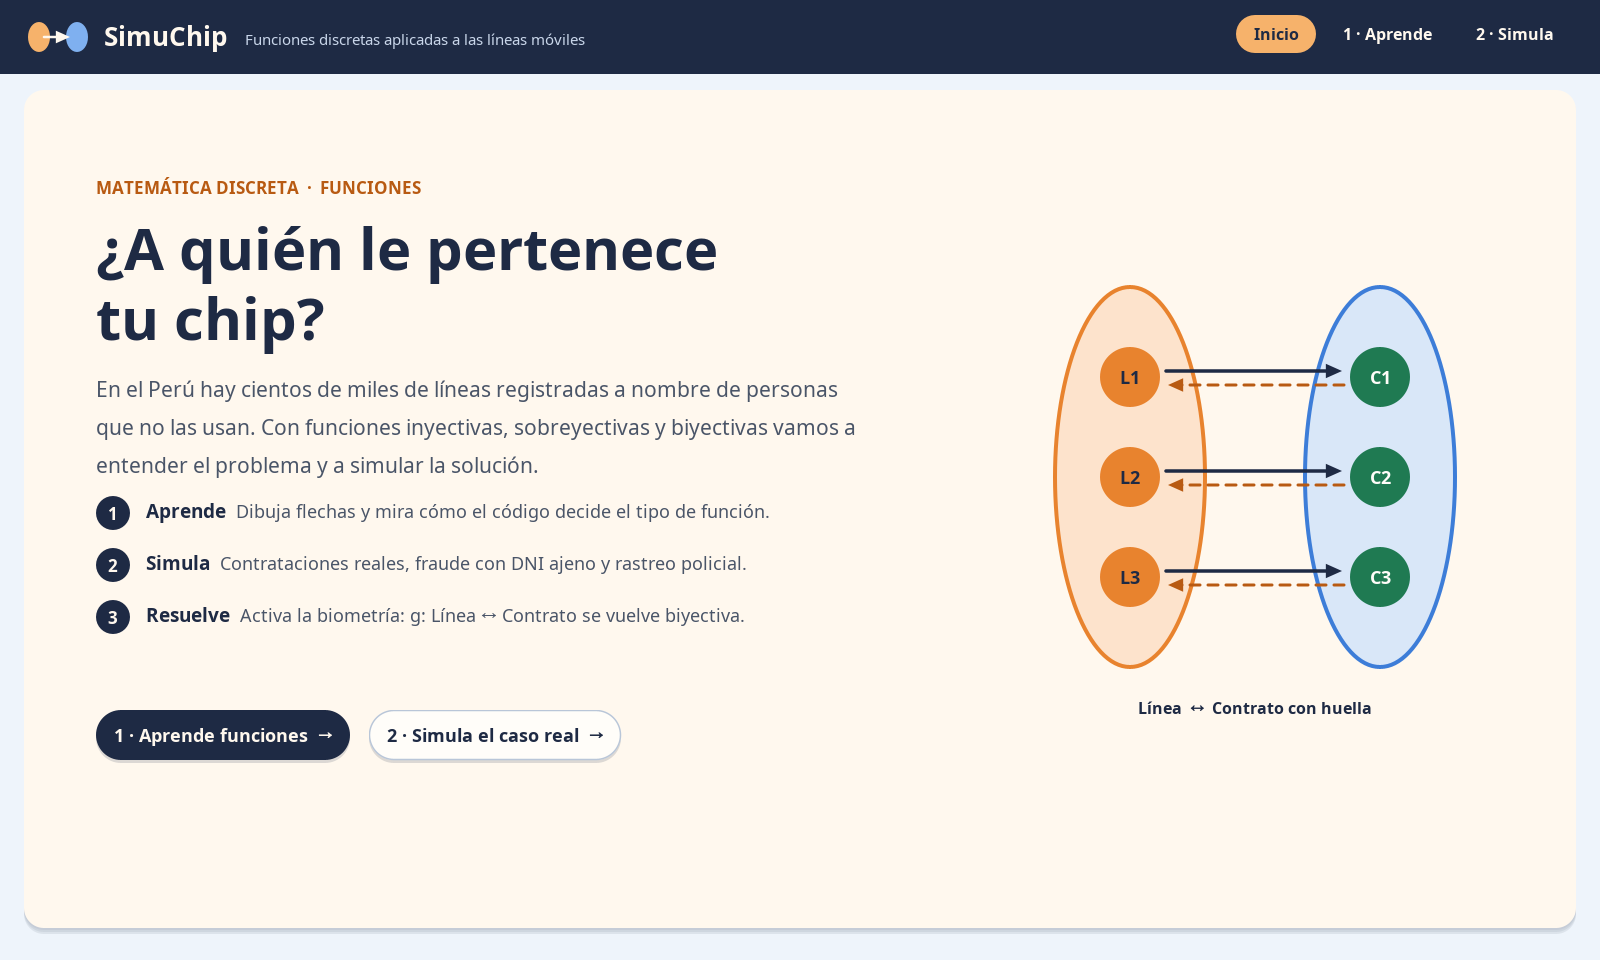
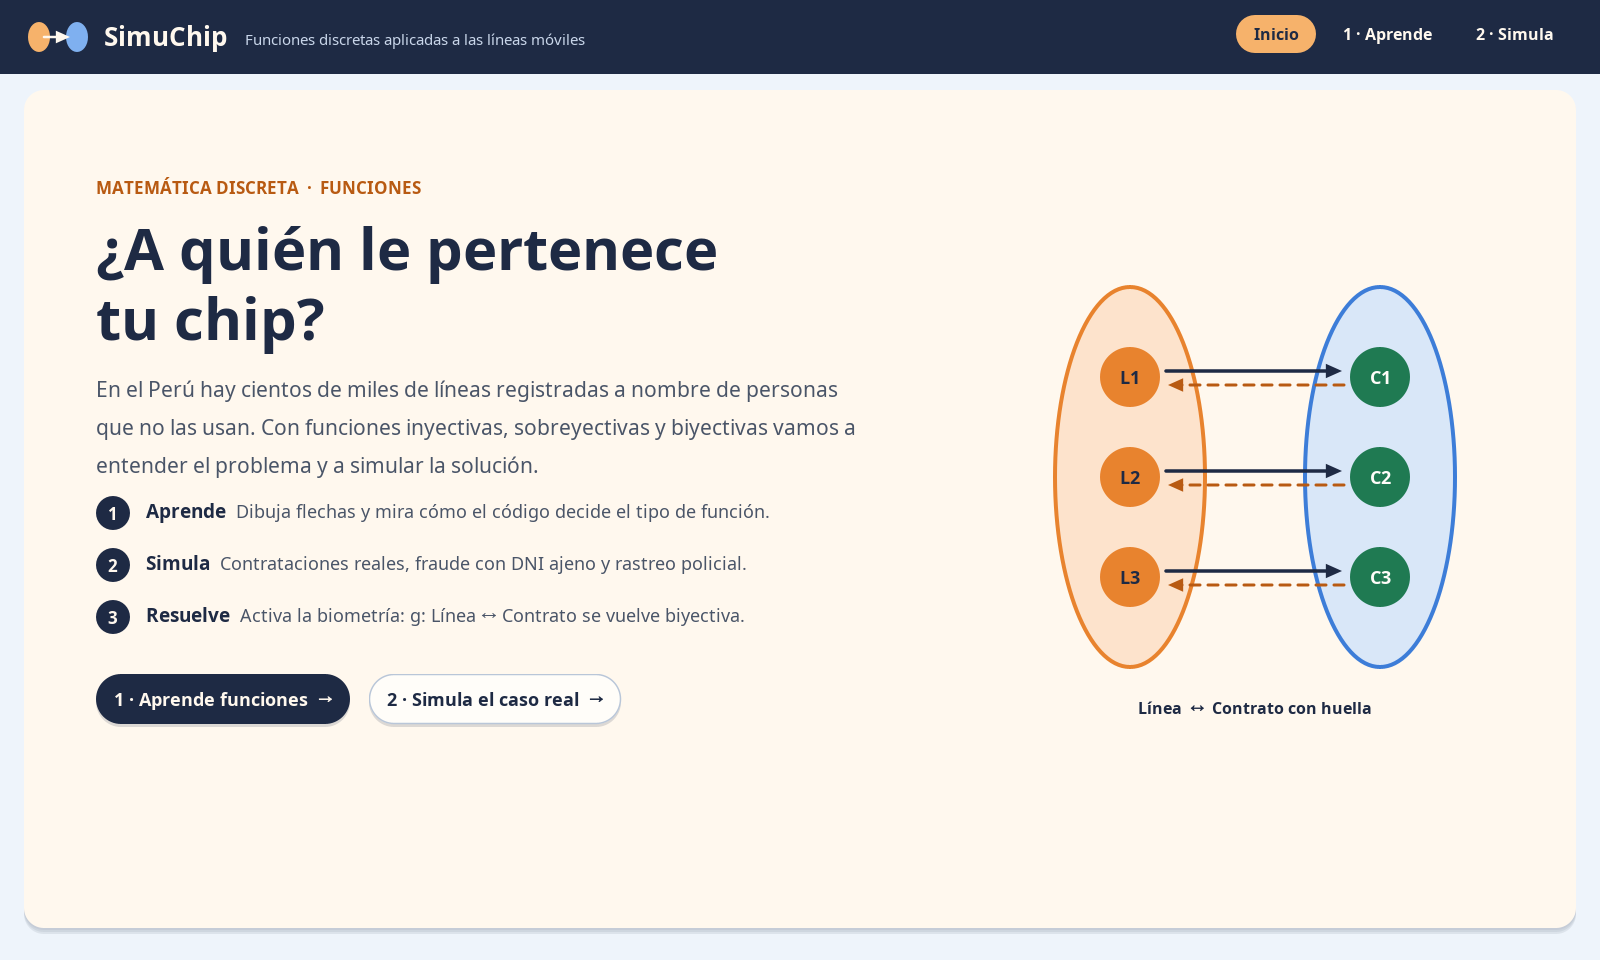
fix: escala automática en pantallas HiDPI de Linux y botones del inicio sin solapar

Changed region(s): [[0.0625, 0.6875, 0.375, 0.8125]]

diff --git a/src/simuchip/ui/PanelInicio.java b/src/simuchip/ui/PanelInicio.java
@@ -9,6 +9,10 @@ import javax.swing.JComponent;
 /** Pantalla de bienvenida: la pregunta, qué se puede hacer y botones para empezar. */
 public final class PanelInicio extends JComponent {
 
+    private static final String TEXTO = "En el Perú hay cientos de miles de líneas registradas a nombre de personas "
+            + "que no las usan. Con funciones inyectivas, sobreyectivas y biyectivas vamos a entender "
+            + "el problema y a simular la solución.";
+
     private final Animador animador;
     private final Boton aprender;
     private final Boton simular;
@@ -27,10 +31,17 @@ public final class PanelInicio extends JComponent {
         }
     }
 
+    /** Altura del párrafo de presentación (la misma cuenta que usa paintComponent). */
+    private int altoParrafo() {
+        java.awt.FontMetrics fm = getFontMetrics(Tema.letra(Font.PLAIN, 21f));
+        int lineas = Tema.partir(TEXTO, fm, Math.min(760, getWidth() / 2)).size();
+        return lineas * Math.round(fm.getHeight() * 1.25f);
+    }
+
     @Override
     public void doLayout() {
         int x = 96;
-        int y = getHeight() - 250;
+        int y = 300 + altoParrafo() + 30 + 104 + 52;   // debajo del paso 3
         aprender.setBounds(x, y, aprender.getPreferredSize().width, 54);
         simular.setBounds(x + aprender.getPreferredSize().width + 18, y, simular.getPreferredSize().width, 54);
     }
@@ -56,9 +67,7 @@ public final class PanelInicio extends JComponent {
         g.setFont(Tema.letra(Font.PLAIN, 21f));
         g.setColor(Tema.TEXTO_SUAVE);
         int anchoTexto = Math.min(760, w / 2);
-        int alto = Tema.parrafo(g, "En el Perú hay cientos de miles de líneas registradas a nombre de personas "
-                + "que no las usan. Con funciones inyectivas, sobreyectivas y biyectivas vamos a entender "
-                + "el problema y a simular la solución.", x, 300, anchoTexto, 1.25f);
+        int alto = Tema.parrafo(g, TEXTO, x, 300, anchoTexto, 1.25f);
 
         int yPasos = 300 + alto + 30;
         paso(g, x, yPasos, "1", "Aprende", "Dibuja flechas y mira cómo el código decide el tipo de función.");

diff --git a/src/simuchip/Principal.java b/src/simuchip/Principal.java
@@ -12,6 +12,7 @@ public final class Principal {
 
     public static void main(String[] args) {
         System.setProperty("awt.useSystemAAFontSettings", "on");
+        ajustarEscalaEnLinux();
         SwingUtilities.invokeLater(() -> {
             JFrame ventana = new JFrame("SimuChip · Funciones y líneas móviles");
             ventana.setDefaultCloseOperation(JFrame.EXIT_ON_CLOSE);
@@ -21,5 +22,31 @@ public final class Principal {
             ventana.setLocationRelativeTo(null);
             ventana.setVisible(true);
         });
+    }
+
+    /**
+     * En Linux, Java no detecta solo el escalado de pantallas de alta resolución y todo se ve diminuto.
+     * Si el usuario no fijó -Dsun.java2d.uiScale, se calcula con el ancho de la pantalla (base 1920 px).
+     * Debe correr ANTES de crear cualquier ventana. En Windows y macOS Java ya escala solo.
+     */
+    private static void ajustarEscalaEnLinux() {
+        if (!System.getProperty("os.name", "").toLowerCase().contains("linux")
+                || System.getProperty("sun.java2d.uiScale") != null) {
+            return;
+        }
+        try {
+            Process p = new ProcessBuilder("xrandr", "--current").redirectErrorStream(true).start();
+            String salida = new String(p.getInputStream().readAllBytes());
+            java.util.regex.Matcher m = java.util.regex.Pattern.compile("current (\\d+) x (\\d+)").matcher(salida);
+            if (m.find()) {
+                int ancho = Integer.parseInt(m.group(1));
+                if (ancho > 2200) {
+                    double escala = Math.min(2.5, Math.round(ancho / 1920.0 * 4) / 4.0);
+                    System.setProperty("sun.java2d.uiScale", String.valueOf(escala));
+                }
+            }
+        } catch (Exception e) {
+            // sin xrandr: se queda la escala por defecto
+        }
     }
 }
